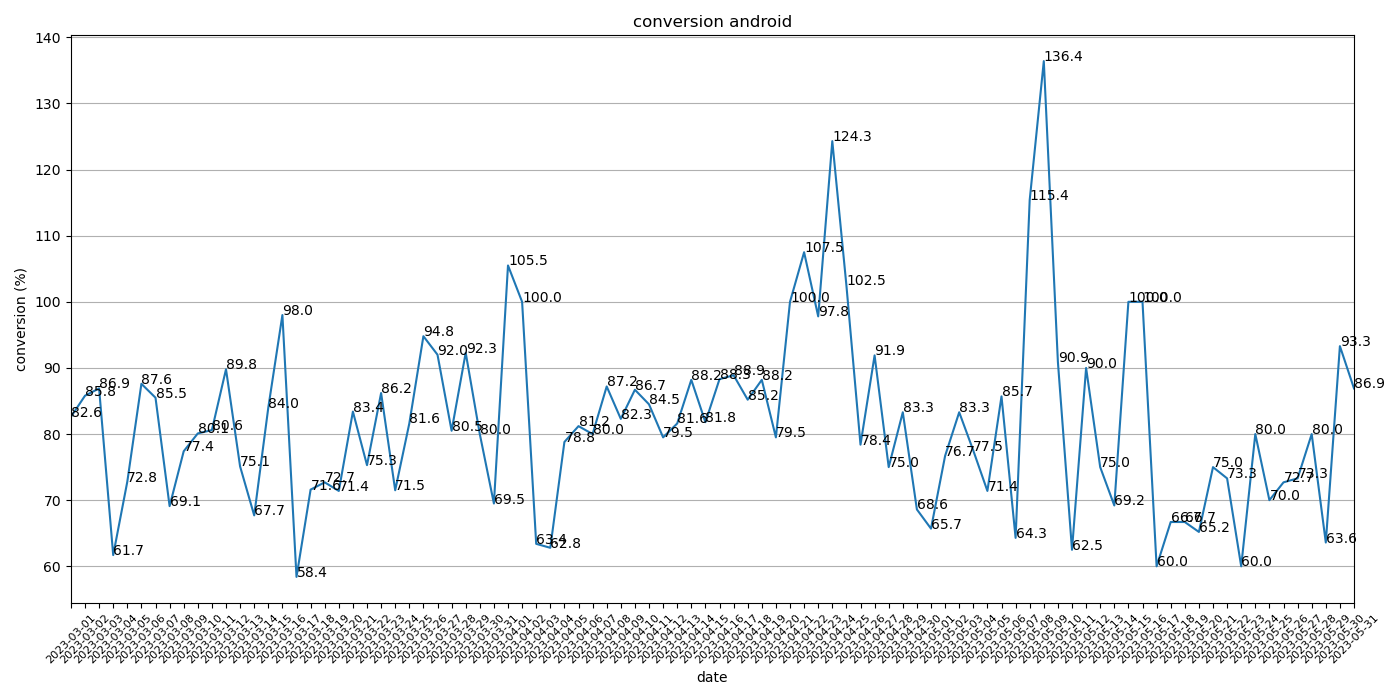
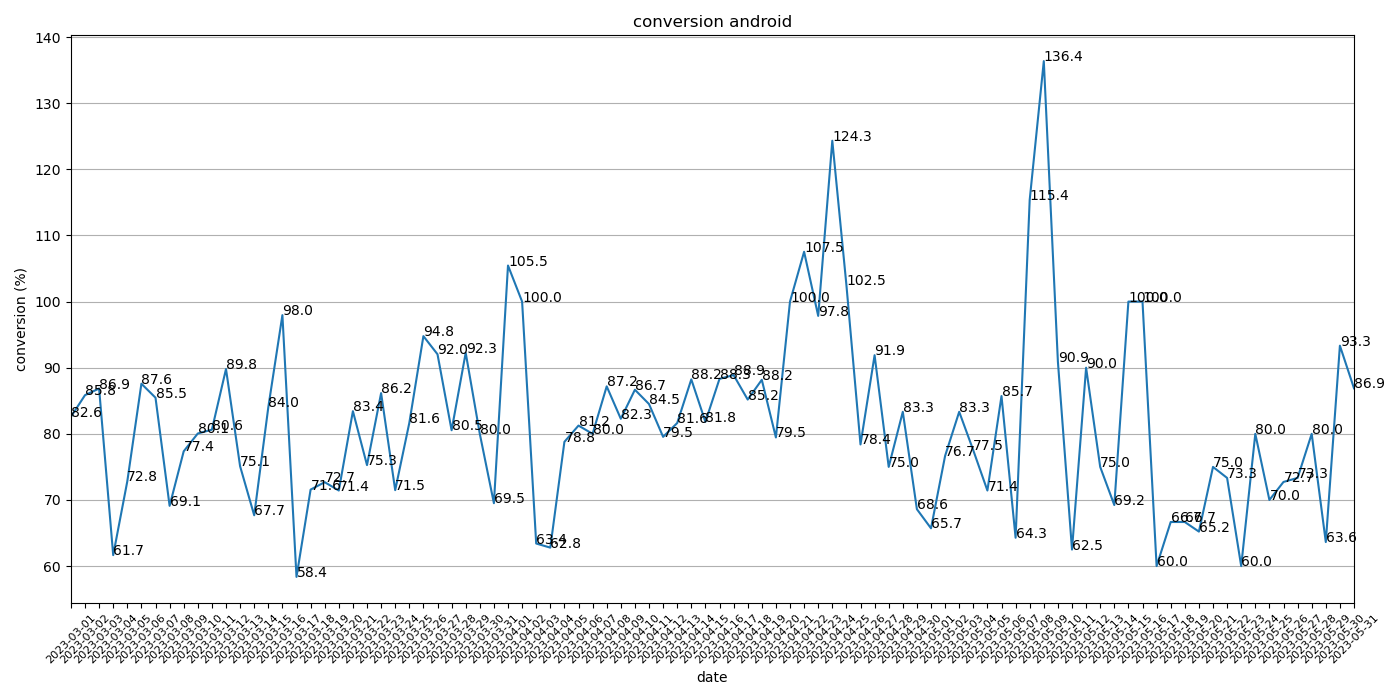
update

diff --git a/main.py b/main.py
@@ -40,6 +40,7 @@ def load_data_set(link, name):
     resp=requests.get(f'{link[0]}/{name}?begin={link[1]}&end={link[2]}')
     r=resp.json()
     df=pd.DataFrame(r)
+    df['datetime']=pd.to_datetime(df['datetime']).dt.date
         
     return(df)
 
@@ -123,7 +124,7 @@ def plot_line(x, y, title, x_name, y_name):
     y_list=y.tolist()
     
     for i in range (len(x_list)):
-        plt.text(x_list[i], y_list[i], y_list[i])
+        plt.text(x_list[i], y_list[i], round(y_list[i], 1))
     
     plt.title(title)
     plt.xlabel(x_name)
@@ -151,7 +152,7 @@ def plot_conversion(df, x, y, types, x_name, y_name):
     plt.plot(x_list, y_list)
     
     for i in range (len(x_list)):
-        plt.text(x_list[i], y_list[i], y_list[i])
+        plt.text(x_list[i], y_list[i], round(y_list[i], 1))
     
     plt.title(f'conversion {types}')
     plt.xlabel(x_name)
@@ -230,32 +231,24 @@ def run_all():
     df_visits=load_data_set(link, 'visits')
     df_visits=df_visits[df_visits['platform']!='bot']
     df_registrations=load_data_set(link, 'registrations')
-    df_registrations['datetime']=pd.to_datetime(df_registrations['datetime']).dt.date
-    
-    # избавляемся от дублей в visit_id, используем модель last_click
-    v_last=df_visits.groupby(['visit_id']).agg({'datetime':'max'}).reset_index()
-    df=pd.merge(v_last, df_visits, on=['visit_id', 'datetime'], how='left').reset_index()
-    df['datetime']=pd.to_datetime(df['datetime']).dt.date
     
     # шаг 3 объединяем данные визитов и регистраций
-    v_st3=df.groupby(['datetime', 'platform']).agg({'visit_id':'count'}).reset_index()
+    v_st3=df_visits.groupby(['datetime', 'platform']).agg({'visit_id':'count'}).reset_index()
     r_st3=df_registrations.groupby(['datetime', 'platform']).agg({'user_id':'nunique'}).reset_index()
     conversion=pd.merge(v_st3, r_st3, on=['datetime', 'platform'])
     
     # шаг 3 считаем конверсию
-    conversion['conversion']=conversion['user_id']/conversion['visit_id']*100
-    conversion['conversion']=conversion['conversion'].round(1)                                                                              
+    conversion['conversion']=conversion['user_id']/conversion['visit_id']*100                                                                            
     conversion.rename(columns={'datetime':'date_group', 'visit_id':'visits', 'user_id':'registrations'}, inplace=True)
     conversion=conversion.sort_values(by='date_group')
     conversion.to_json('./conversion.json')
     
     # шаг 4 добавляем данные рекламы к общей базе данных
-    ads=pd.read_csv('./ads.csv')
+    ads=pd.read_csv('ads.csv')
     ads['date']=pd.to_datetime(ads['date']).dt.date
     
     total_conversion=conversion.drop(['platform', 'conversion'], axis=1).groupby(['date_group']).agg('sum').reset_index()
     total_conversion['conversion']=total_conversion['registrations']/total_conversion['visits']*100
-    total_conversion['conversion']=total_conversion['conversion'].round(1)
     out=pd.merge(total_conversion, ads[['date','cost', 'utm_campaign']], left_on='date_group', right_on='date', how='left').drop(['date'], axis=1)
     out.rename(columns={'utm_campaign':'campaign'}, inplace=True)
     out['cost']=out['cost'].fillna(0)
@@ -265,6 +258,10 @@ def run_all():
        
     # для графиков зависимости регистраций от площадки прихода
     data_reg=df_registrations.groupby(['datetime', 'registration_type']).agg({'user_id':'count'}).reset_index()
+    
+    #создаём директорию для хранения файлов
+    if not os.path.isdir("charts"):
+        os.mkdir("charts")
     
     # шаг 5 строим графики
         # графики общих визитов и регистраций по дням
